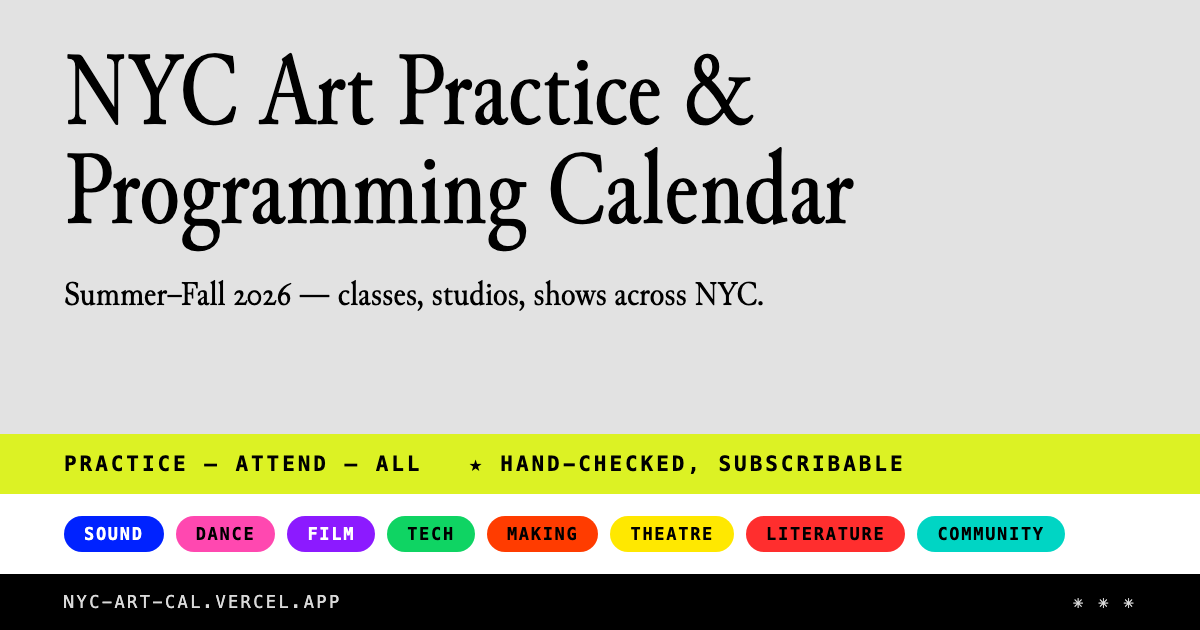
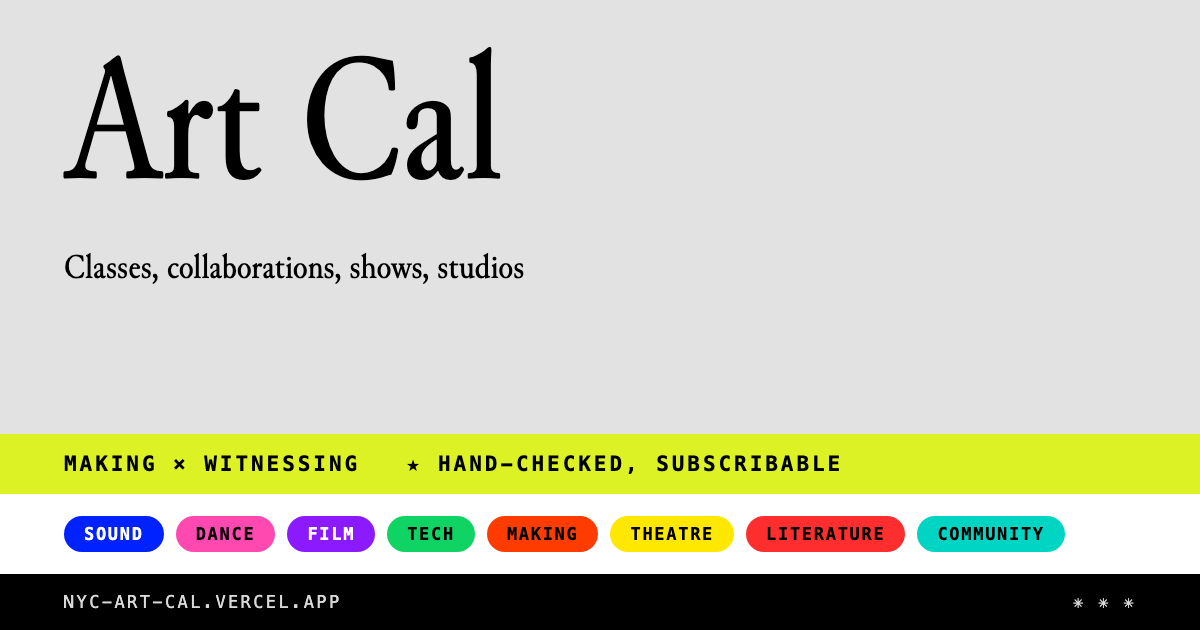
Rebrand: Art Cal (Making × Witnessing)
- Masthead: giant "Art Cal" with mono tag line; new subtitle
  "Classes, collaborations, shows, studios"
- Tabs renamed Practice/Attend → Making/Witnessing to match the brand
- Feed calendar names, personal/curated feed names, export filename,
  PRODID, page meta/OG tags, README, and share card all rebranded
- iCal event UIDs intentionally unchanged so existing subscriptions
  don't duplicate events

Changed region(s): [[0.0308, 0.0603, 0.7092, 0.4825], [0.0308, 0.7238, 0.7708, 0.754]]

diff --git a/src/styles.css b/src/styles.css
@@ -681,13 +681,13 @@ a:hover {
 .app-title {
   font-family: var(--font-display);
   font-stretch: 75%;
-  font-size: 76px;
+  font-size: 124px;
   font-weight: 400;
   font-style: normal;
   margin: 0;
-  padding-bottom: 36px;
+  padding-bottom: 28px;
   letter-spacing: 0;
-  line-height: 0.95;
+  line-height: 0.9;
   color: var(--text-1);
   max-width: 900px;
   position: relative;
@@ -696,6 +696,17 @@ a:hover {
 
 .app-title::first-letter {
   color: inherit;
+}
+
+.app-title-tag {
+  display: block;
+  font-family: var(--font-mono);
+  font-size: 13px;
+  font-weight: 500;
+  letter-spacing: 0.18em;
+  text-transform: uppercase;
+  color: var(--text-2);
+  margin-top: 16px;
 }
 
 .app-subtitle {
@@ -1811,7 +1822,12 @@ a:hover {
   }
 
   .app-title {
-    font-size: 40px;
+    font-size: 68px;
+  }
+
+  .app-title-tag {
+    font-size: 10px;
+    margin-top: 10px;
   }
 
   .decisions-list {

diff --git a/index.html b/index.html
@@ -4,26 +4,26 @@
     <meta charset="UTF-8" />
     <link rel="icon" type="image/svg+xml" href="/favicon.svg" />
     <meta name="viewport" content="width=device-width, initial-scale=1.0" />
-    <title>NYC Art Practice &amp; Programming Calendar</title>
+    <title>Art Cal (Making × Witnessing)</title>
     <meta
       name="description"
-      content="A hand-checked calendar of NYC's artist-run corners — classes, studios, shows. Filter by medium, star your picks, subscribe as a self-updating calendar."
+      content="Classes, collaborations, shows, studios — a hand-checked calendar of NYC's artist-run corners. Filter by medium, star your picks, subscribe as a self-updating calendar."
     />
     <meta property="og:type" content="website" />
-    <meta property="og:title" content="NYC Art Practice &amp; Programming Calendar" />
+    <meta property="og:title" content="Art Cal (Making × Witnessing)" />
     <meta
       property="og:description"
-      content="A hand-checked calendar of NYC's artist-run corners — classes, studios, shows. Filter by medium, star your picks, subscribe as a self-updating calendar."
+      content="Classes, collaborations, shows, studios — a hand-checked calendar of NYC's artist-run corners. Filter by medium, star your picks, subscribe as a self-updating calendar."
     />
     <meta property="og:url" content="https://nyc-art-cal.vercel.app/" />
     <meta property="og:image" content="https://nyc-art-cal.vercel.app/og.png" />
     <meta property="og:image:width" content="1200" />
     <meta property="og:image:height" content="630" />
     <meta name="twitter:card" content="summary_large_image" />
-    <meta name="twitter:title" content="NYC Art Practice &amp; Programming Calendar" />
+    <meta name="twitter:title" content="Art Cal (Making × Witnessing)" />
     <meta
       name="twitter:description"
-      content="A hand-checked calendar of NYC's artist-run corners — classes, studios, shows."
+      content="Classes, collaborations, shows, studios — a hand-checked calendar of NYC's artist-run corners."
     />
     <meta name="twitter:image" content="https://nyc-art-cal.vercel.app/og.png" />
     <link rel="preconnect" href="https://fonts.googleapis.com" />

diff --git a/scripts/generate-feeds.ts b/scripts/generate-feeds.ts
@@ -22,27 +22,27 @@ const feeds: Feed[] = [
   {
     filename: "feed.ics",
     events: allEvents,
-    name: "NYC Art Practice & Programming Calendar",
+    name: "Art Cal (Making × Witnessing)",
     description:
-      "Every event on the NYC Art Practice & Programming Calendar. Classes, workshops, shows, screenings, everything.",
+      "Every event on Art Cal. Classes, workshops, shows, screenings, everything.",
   },
   {
     filename: "feed-attend.ics",
     events: allEvents.filter((e) => e.mode === "witness"),
-    name: "NYC Art Practice & Programming Calendar — Attend",
+    name: "Art Cal — Witnessing",
     description:
       "Shows, plays, concerts, screenings — things to witness.",
   },
   {
     filename: "feed-practice.ics",
     events: allEvents.filter((e) => e.mode === "make"),
-    name: "NYC Art Practice & Programming Calendar — Practice",
+    name: "Art Cal — Making",
     description: "Classes, workshops, participatory practice.",
   },
   {
     filename: "feed-free.ics",
     events: allEvents.filter(isFree),
-    name: "NYC Art Practice & Programming Calendar — Free",
+    name: "Art Cal — Free",
     description: "Only free / no-cost events.",
   },
 ];
@@ -62,7 +62,7 @@ for (const { category, label, description } of CATEGORIES) {
   feeds.push({
     filename: `feed-${category}.ics`,
     events: allEvents.filter((e) => e.category === category),
-    name: `NYC Art Practice & Programming Calendar — ${label}`,
+    name: `Art Cal — ${label}`,
     description,
   });
 }

diff --git a/src/App.tsx b/src/App.tsx
@@ -181,9 +181,12 @@ function App() {
         <div className="zone-inner">
           <div className="app-header-row">
             <div>
-              <h1 className="app-title">NYC Art Practice &amp; Programming Calendar</h1>
+              <h1 className="app-title">
+                Art Cal
+                <span className="app-title-tag">(Making × Witnessing)</span>
+              </h1>
               <p className="app-subtitle">
-                Summer–Fall 2026 — classes, studios, shows across NYC.
+                Classes, collaborations, shows, studios
               </p>
               <p className="verified">
                 Today {todayLabel} · last verified {data.lastVerified}
@@ -300,7 +303,7 @@ function App() {
           </div>
           <Spaces filter={filter} tab={tab} />
           <div className="footer-bar">
-            <span>NYC Art Practice &amp; Programming Calendar</span>
+            <span>Art Cal (Making × Witnessing)</span>
             <a
               className="footer-submit"
               href="mailto:[email redacted]?subject=Event%20for%20the%20calendar&body=What%3A%0AWhen%3A%0AWhere%3A%0ACost%3A%0ALink%3A%0A"

diff --git a/api/feed.ts b/api/feed.ts
@@ -79,8 +79,8 @@ export default async function handler(
 
   const ics = buildICal(events, {
     calendarName: curated
-      ? "NYC Art Practice & Programming Calendar — Curated Picks"
-      : "NYC Art Practice & Programming Calendar — My Picks",
+      ? "Art Cal — Curated Picks"
+      : "Art Cal — My Picks",
     calendarDescription: curated
       ? "Hand-picked highlights from the full calendar. Updates as the list is curated."
       : "Your starred picks. Updates automatically as you pick events on any synced device.",

diff --git a/src/components/SubscribePanel.tsx b/src/components/SubscribePanel.tsx
@@ -22,13 +22,13 @@ const FEEDS: Feed[] = [
   },
   {
     key: "attend",
-    label: "Attend",
+    label: "Witnessing",
     filename: "feed-attend.ics",
     description: "Shows, concerts, screenings — things to witness.",
   },
   {
     key: "practice",
-    label: "Practice",
+    label: "Making",
     filename: "feed-practice.ics",
     description: "Classes and workshops — things to make.",
   },

diff --git a/src/components/TabBar.tsx b/src/components/TabBar.tsx
@@ -10,8 +10,8 @@ const OPTIONS: {
   label: string;
   sub: string;
 }[] = [
-  { value: "practice", label: "Practice", sub: "Classes + creative practice" },
-  { value: "attend", label: "Attend", sub: "Shows, plays, screenings" },
+  { value: "practice", label: "Making", sub: "Classes + participatory practice" },
+  { value: "attend", label: "Witnessing", sub: "Shows, plays, screenings" },
   { value: "all", label: "All", sub: "Everything" },
 ];
 

diff --git a/src/lib/ical.ts b/src/lib/ical.ts
@@ -78,7 +78,7 @@ export function buildICal(
   const lines: string[] = [
     "BEGIN:VCALENDAR",
     "VERSION:2.0",
-    "PRODID:-//NYC Creative Calendar//EN",
+    "PRODID:-//Art Cal//EN",
     "CALSCALE:GREGORIAN",
     "METHOD:PUBLISH",
   ];
@@ -151,7 +151,7 @@ export function buildICal(
 
 export function downloadICal(
   events: CalEvent[],
-  filename = "nyc-creative-calendar.ics",
+  filename = "art-cal.ics",
   options: BuildICalOptions = {},
 ): void {
   const ics = buildICal(events, options);

diff --git a/src/components/ExportButton.tsx b/src/components/ExportButton.tsx
@@ -39,7 +39,7 @@ export function ExportButton({ filter, tab, picks, picksOnly, freeOnly }: Props)
   ].filter(Boolean);
   const scopeText = bits.length ? ` ${bits.join(" ")}` : "";
   const label = `Export ${events.length}${scopeText}`;
-  const filename = `nyc-creative-calendar${bits.length ? "-" + bits.join("-") : ""}.ics`;
+  const filename = `art-cal${bits.length ? "-" + bits.join("-") : ""}.ics`;
   return (
     <button
       type="button"

diff --git a/README.md b/README.md
@@ -1,4 +1,4 @@
-# NYC Art Practice & Programming Calendar
+# Art Cal (Making × Witnessing)
 
 Built by Hannah Levinson • more at [hrlevinson.com](https://hrlevinson.com)
 